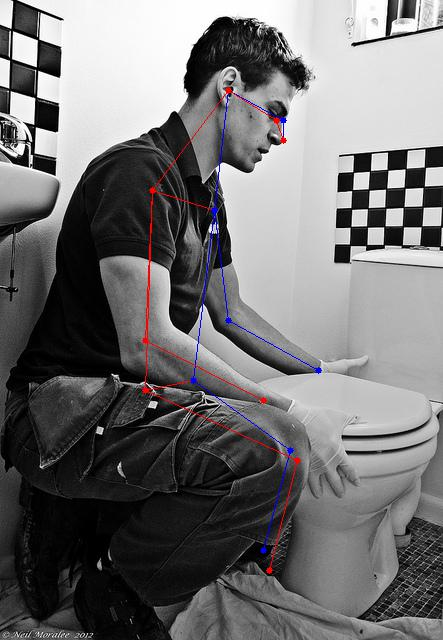
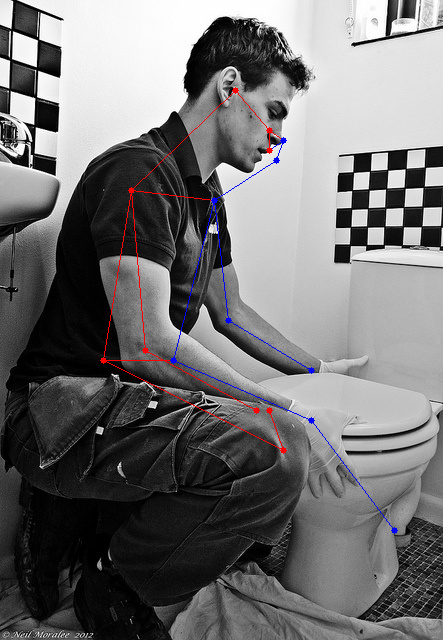
update tools and results

diff --git a/tools/model_converter/keras_to_onnx.py b/tools/model_converter/keras_to_onnx.py
@@ -10,8 +10,8 @@ import tensorflow as tf
 from tensorflow.keras.models import load_model
 import onnx
 
-#sys.path.append(os.path.join(os.path.dirname(os.path.realpath(__file__)), '..', '..'))
-#from common.utils import get_custom_objects
+sys.path.append(os.path.join(os.path.dirname(os.path.realpath(__file__)), '..', '..'))
+from common.utils import get_custom_objects
 
 os.environ['TF_KERAS'] = '1'
 
@@ -21,8 +21,8 @@ def onnx_convert_old(keras_model_file, output_file, op_set):
     using deprecated keras2onnx package
     """
     import keras2onnx
-    #custom_object_dict = get_custom_objects()
-    model = load_model(keras_model_file)
+    custom_object_dict = get_custom_objects()
+    model = load_model(keras_model_file, custom_objects=custom_object_dict)
 
     # convert to onnx model
     onnx_model = keras2onnx.convert_keras(model, model.name, custom_op_conversions=custom_object_dict, target_opset=op_set)
@@ -33,8 +33,8 @@ def onnx_convert_old(keras_model_file, output_file, op_set):
 
 def onnx_convert(keras_model_file, output_file, op_set, inputs_as_nchw):
     import tf2onnx
-    #custom_object_dict = get_custom_objects()
-    model = load_model(keras_model_file)
+    custom_object_dict = get_custom_objects()
+    model = load_model(keras_model_file, custom_objects=custom_object_dict)
 
     # assume only 1 input tensor for image
     assert len(model.inputs) == 1, 'invalid input tensor number.'
@@ -56,8 +56,8 @@ def onnx_convert_with_savedmodel(keras_model_file, output_file, op_set, inputs_a
     if not tf.__version__.startswith('2'):
         raise ValueError('savedmodel convert only support in TF 2.x env')
 
-    #custom_object_dict = get_custom_objects()
-    model = load_model(keras_model_file)
+    custom_object_dict = get_custom_objects()
+    model = load_model(keras_model_file, custom_objects=custom_object_dict)
 
     # assume only 1 input tensor for image
     assert len(model.inputs) == 1, 'invalid input tensor number.'

diff --git a/tools/evaluation/mpii_eval.py b/tools/evaluation/mpii_eval.py
@@ -97,7 +97,8 @@ def get_headboxes_array(eval_annotations):
 
 
 def eval_PCKh(eval_keypoints_array, eval_annotations, class_names, threshold=0.5):
-    SC_BIAS = 0.6
+    # a head scale factor to adjust normalized head size
+    HEAD_SCALE_BIAS = 0.6
 
     # parse gt keypoints array, visible array and headboxes array
     # for computing PCKh
@@ -115,7 +116,7 @@ def eval_PCKh(eval_keypoints_array, eval_annotations, class_names, threshold=0.5
     # normalized head size
     headsizes = headboxes_array[1, :, :] - headboxes_array[0, :, :]
     headsizes = np.linalg.norm(headsizes, axis=0)
-    headsizes *= SC_BIAS
+    headsizes *= HEAD_SCALE_BIAS
 
     # scaled keypoints error with head size
     scale = np.multiply(headsizes, np.ones((len(keypoints_error), 1)))
@@ -260,6 +261,9 @@ def main():
     eval_dataset = keypoints_dataset(args.dataset_path, batch_size=1, class_names=class_names,
                               input_shape=model_input_shape, is_train=False, with_meta=True)
     print('eval data size', eval_dataset.get_dataset_size())
+
+    # check if it's a MPII dataset
+    assert eval_dataset.get_dataset_name() == 'MPI', 'PCKh metric only valid for MPII dataset'
 
     mpii_eval(model, model_format, eval_dataset, class_names, model_input_shape, args.score_threshold, args.conf_threshold)
 

diff --git a/tools/evaluation/model_statistics.py b/tools/evaluation/model_statistics.py
@@ -10,8 +10,8 @@ import tensorflow.keras.backend as K
 from tensorflow.keras.models import Model, load_model
 from tensorflow.keras.layers import Input
 
-#sys.path.append(os.path.join(os.path.dirname(os.path.realpath(__file__)), '..', '..'))
-#from common.utils import get_custom_objects
+sys.path.append(os.path.join(os.path.dirname(os.path.realpath(__file__)), '..', '..'))
+from common.utils import get_custom_objects
 
 # check tf version to be compatible with TF 2.x
 if tf.__version__.startswith('2'):
@@ -75,8 +75,8 @@ def main():
     parser.add_argument('--model_input_shape', type=str, required=False, default=None, help='model image input shape as <height>x<width>, optional')
     args = parser.parse_args()
 
-    #custom_object_dict = get_custom_objects()
-    model = load_model(args.model_path, compile=False)
+    custom_object_dict = get_custom_objects()
+    model = load_model(args.model_path, compile=False, custom_objects=custom_object_dict)
 
     batch, height, width, channel = model.input.shape.as_list()
 

diff --git a/tools/model_converter/post_train_quant_convert.py b/tools/model_converter/post_train_quant_convert.py
@@ -13,15 +13,15 @@ from tensorflow.keras.models import load_model
 sys.path.append(os.path.join(os.path.dirname(os.path.realpath(__file__)), '..', '..'))
 from simple_baselines.data import keypoints_dataset
 from common.utils import get_classes
-#from common.utils import get_custom_objects
+from common.utils import get_custom_objects
 
 #tf.enable_eager_execution()
 
 
 def post_train_quant_convert(keras_model_file, dataset_path, class_names, sample_num, output_file):
-    #custom_object_dict = get_custom_objects(custom_objects_string)
+    custom_object_dict = get_custom_objects()
 
-    model = load_model(keras_model_file)
+    model = load_model(keras_model_file, custom_objects=custom_object_dict)
     converter = tf.lite.TFLiteConverter.from_keras_model(model)
 
     # get input shape, assume only 1 input

diff --git a/common/utils.py b/common/utils.py
@@ -5,6 +5,8 @@
 import numpy as np
 import os, cv2, colorsys
 from matplotlib.colors import rgb_to_hsv, hsv_to_rgb
+
+from common.backbones.mobilenet_v3 import hard_sigmoid, hard_swish
 import tensorflow as tf
 
 
@@ -28,6 +30,21 @@ def optimize_tf_gpu(tf, K):
 
         # set session
         K.set_session(session)
+
+
+def get_custom_objects():
+    '''
+    form up a custom_objects dict so that the customized
+    layer/function call could be correctly parsed when keras
+    .h5 model is loading or converting
+    '''
+    custom_objects_dict = {
+        'tf': tf,
+        'hard_sigmoid': hard_sigmoid,
+        'hard_swish': hard_swish,
+    }
+
+    return custom_objects_dict
 
 
 def get_classes(classes_path):

diff --git a/README.md b/README.md
@@ -303,24 +303,60 @@ optional arguments:
                         coco json annotation file
 ```
 
+For MPII dataset, you can also use [mpii_eval.py](https://github.com/david8862/tf-keras-simple-baselines-keypoint-detection/tree/master/tools/evaluation/mpii_eval.py) to get MPII PCKh metric:
+
+```
+# cd tools/evaluation && python mpii_eval.py -h
+usage: mpii_eval.py [-h] --model_path MODEL_PATH [--dataset_path DATASET_PATH]
+                    [--classes_path CLASSES_PATH]
+                    [--score_threshold SCORE_THRESHOLD]
+                    [--conf_threshold CONF_THRESHOLD]
+                    [--model_input_shape MODEL_INPUT_SHAPE]
+
+Calculate PCKh metric on MPII dataset for keypoint detection model
+
+optional arguments:
+  -h, --help            show this help message and exit
+  --model_path MODEL_PATH
+                        path to model file
+  --dataset_path DATASET_PATH
+                        dataset path containing images and annotation file,
+                        default=../../data/mpii
+  --classes_path CLASSES_PATH
+                        path to keypoint class definitions,
+                        default=../../configs/mpii_classes.txt
+  --score_threshold SCORE_THRESHOLD
+                        score threshold for PCK evaluation, default=0.5
+  --conf_threshold CONF_THRESHOLD
+                        confidence threshold for filtering keypoint in
+                        postprocess, default=1e-06
+  --model_input_shape MODEL_INPUT_SHAPE
+                        model image input shape as <height>x<width>,
+                        default=256x256
+```
+
+<p align="center">
+  <img src="assets/PCKh.png">
+</p>
+
 The default PCK metric (score_threshold=0.5, normalize=6.4) will also be applied on validation dataset during training process for picking best checkpoints.
 
 Some experiment on MPII Human Pose dataset:
 
-| Model name | InputSize | TrainSet | TestSet | PCK@0.5 | FLOPS | Param | Speed | Ps |
-| ----- | ------ | ------ | ------ | ----- | ----- | ----- | ----- | ----- |
-| [hg_s2_256_256](https://github.com/david8862/tf-keras-stacked-hourglass-keypoint-detection/releases/download/v1.0.1/hg_s2_256_256_mpii.tar.gz) | 256x256 | MPII | MPII | 0.83 | 20.28G | 6.57M | 20.9ms | Keras on Titan XP |
-| [hg_s2_mobile_256_256](https://github.com/david8862/tf-keras-stacked-hourglass-keypoint-detection/releases/download/v1.0.1/hg_s2_mobile_256_256_mpii.tar.gz) | 256x256 | MPII | MPII | 0.824 | 9.37G | 2.75M | 20.8ms | Keras on Titan XP |
+| Model name | InputSize | TrainSet | TestSet | PCK@0.5 | PCKh@0.5 | FLOPS | Param | Speed | Ps |
+| ----- | ------ | ------ | ------ | ----- | ----- | ----- | ----- | ----- | ----- |
+| [ResNet50 Deconv](https://github.com/david8862/tf-keras-simple-baselines-keypoint-detection/releases/download/v1.0.0/resnet50_deconv_256_256_mpii.tar.gz) | 256x256 | MPII | MPII | 0.821 | 0.805 | 13.95G | 34.03M | 20.9ms | Keras on Titan XP |
+| [MobileNetV2 Deconv](https://github.com/david8862/tf-keras-simple-baselines-keypoint-detection/releases/download/v1.0.0/mobilenetv2_deconv_256_256_mpii.tar.gz) | 256x256 | MPII | MPII | 0.809 | 0.779 | 4.19G | 9.57M | 20.9ms | Keras on Titan XP |
+| [MobileNetV2 Light Upsample](https://github.com/david8862/tf-keras-simple-baselines-keypoint-detection/releases/download/v1.0.0/mobilenetv2_upsample_lite_256_256_mpii.tar.gz) | 256x256 | MPII | MPII | 0.815 | 0.783 | 1.69G | 2.70M | 20.9ms | Keras on Titan XP |
 
 
 Some experiment on MSCOCO Keypoints 2017 dataset:
 
 | Model name | InputSize | TrainSet | TestSet | PCK@0.5 | COCO AP | COCO AP50 | FLOPS | Param | Speed | Ps |
 | ----- | ------ | ------ | ------ | ----- | ----- | ----- | ----- | ----- | ----- | ----- |
-| [hg_s2_256_256](https://github.com/david8862/tf-keras-stacked-hourglass-keypoint-detection/releases/download/v1.0.0/hg_s2_256_256_coco.tar.gz) | 256x256 | train2017 | val2017 | 0.83 | 0.386 | 0.749 | 20.28G | 6.57M | 20.9ms | Keras on Titan XP |
-| [hg_s2_mobile_256_256](https://github.com/david8862/tf-keras-stacked-hourglass-keypoint-detection/releases/download/v1.0.0/hg_s2_mobile_256_256_coco.tar.gz) | 256x256 | train2017 | val2017 | 0.827 | 0.377 | 0.739 | 9.38G | 2.75M | 20.8ms | Keras on Titan XP |
-| [hg_s2_mobile_tiny_256_256](https://github.com/david8862/tf-keras-stacked-hourglass-keypoint-detection/releases/download/v1.0.0/hg_s2_mobile_tiny_256_256_coco.tar.gz) | 256x256 | train2017 | val2017 | 0.787 | 0.336 | 0.697 | 2.62G | 720.8K | 19ms | Keras on Titan XP |
-| [hg_s2_mobile_tiny_192_192](https://github.com/david8862/tf-keras-stacked-hourglass-keypoint-detection/releases/download/v1.0.0/hg_s2_mobile_tiny_192_192_coco.tar.gz) | 192x192 | train2017 | val2017 | 0.792 | 0.266 | 0.649 | 1.47G | 720.8K | 18.4ms | Keras on Titan XP |
+| [ResNet50 Deconv](https://github.com/david8862/tf-keras-simple-baselines-keypoint-detection/releases/download/v1.0.0/resnet50_deconv_256_256_coco.tar.gz) | 256x256 | train2017 | val2017 | 0.818 | 0.386 | 0.749 | 13.95G | 34.03M | 20.9ms | Keras on Titan XP |
+| [MobileNetV3Large Deconv](https://github.com/david8862/tf-keras-simple-baselines-keypoint-detection/releases/download/v1.0.0/mobilenetv3large_deconv_256_256_coco.tar.gz) | 256x256 | train2017 | val2017 | 0.816 | 0.377 | 0.739 | 3.81G | 9.01M | 20.8ms | Keras on Titan XP |
+| [MobileNetV2 Deconv](https://github.com/david8862/tf-keras-simple-baselines-keypoint-detection/releases/download/v1.0.0/mobilenetv2_deconv_256_256_coco.tar.gz) | 256x256 | train2017 | val2017 | 0.799 | 0.336 | 0.697 | 4.19G | 9.57M | 19ms | Keras on Titan XP |
 
 
 ### Tensorflow model convert
